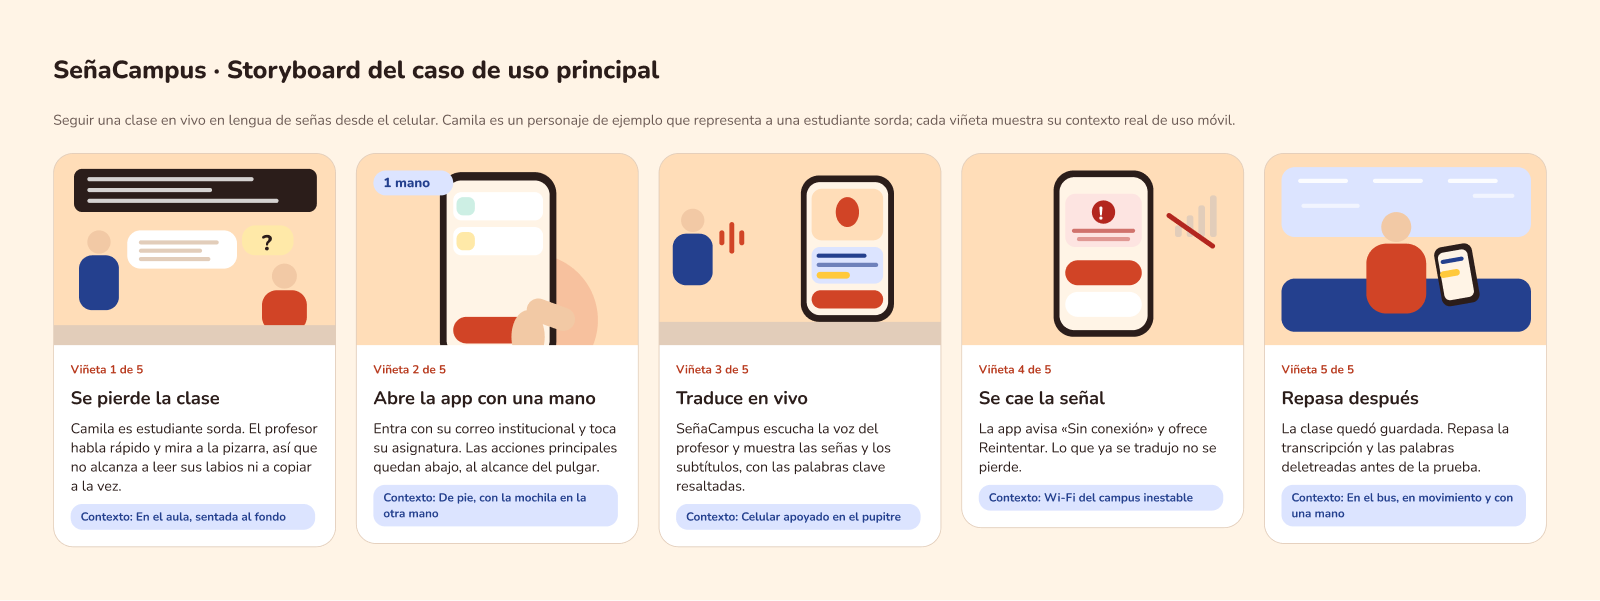
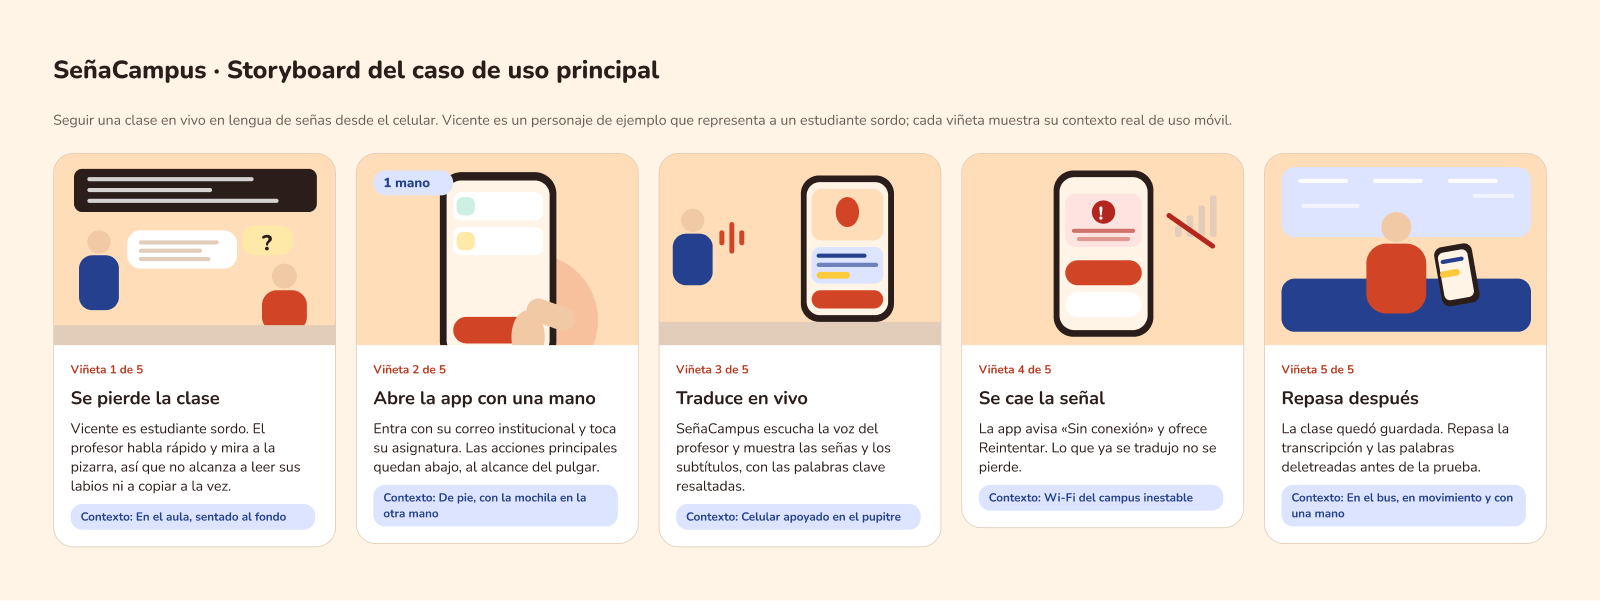
docs: recuperar estructura del backend en README y unificar personaje en Vicente

Changed region(s): [[0.0312, 0.6889, 0.1875, 0.8386], [0.2812, 0.1797, 0.7812, 0.2097], [0.1562, 0.8386, 0.1875, 0.8686]]

diff --git a/README.md b/README.md
@@ -22,7 +22,7 @@ Aplicación móvil desarrollada en **React Native con Expo (SDK 58)** para apoya
 * **Estado:** hooks de React (`useState`, `useEffect`, `useRef`) y datos de ejemplo en `src/data/mockData.js`
 * **Componentes nativos:** `FlatList` (listas), `Pressable` (toques con estado presionado), `TextInput` controlado, `Modal`, `Switch`, `SafeAreaView` / `useSafeAreaInsets`
 * **Diseño:** colores, tipografía (Nunito) y medidas centralizados en `src/constants/`, iguales a los estilos del Figma; íconos `lucide-react-native`; logo SVG con `react-native-svg`
-* **Backend (siguiente avance):** servidor Node en `server/` con Docker (`docker-compose.yml`); cliente HTTP preparado en `mobile/src/services/api.js`
+* **Backend:** Node.js + Express + Mongoose, MongoDB en Docker; cliente HTTP preparado en `mobile/src/services/api.js`
 
 ---
 
@@ -32,8 +32,18 @@ Aplicación móvil desarrollada en **React Native con Expo (SDK 58)** para apoya
     ├── docs/
     │   ├── bitacora.md
     │   └── img/                     # Capturas de Figma y de la app
-    ├── server/                      # API (siguiente avance)
-    ├── docker-compose.yml
+    ├── docker-compose.yml           # MongoDB persistente en Docker
+    ├── server/                      # Backend: Node.js + Express + Mongoose
+    │   ├── .env                     # Puerto y conexión a MongoDB (no se sube a GitHub)
+    │   ├── scripts/
+    │   │   └── seedDictionary.js    # Carga los 2.098 términos del Diccionario LSCh
+    │   └── src/
+    │       ├── server.js            # Punto de entrada: Express, CORS, puerto 5000
+    │       ├── config/db.js         # Conexión a MongoDB
+    │       ├── models/              # Gloss.js, Session.js, Subject.js
+    │       ├── controllers/         # translationController.js, subjectController.js
+    │       ├── routes/              # translationRoutes.js, subjectRoutes.js
+    │       └── utils/textParser.js  # Normaliza texto y quita conectores
     └── mobile/
         ├── app.json                 # Nombre, ícono y pantalla de carga
         ├── assets/                  # logo.svg, icon.png, splash-icon.png, adaptive-icon.png
@@ -58,6 +68,15 @@ Aplicación móvil desarrollada en **React Native con Expo (SDK 58)** para apoya
 
 ---
 
+## Backend y base de datos
+
+El backend ya está implementado y queda listo para conectarse a la app en el siguiente avance (en el Avance N°1 la app usa datos de ejemplo, como permite la rúbrica).
+
+* **Base de datos:** MongoDB en Docker (`docker-compose.yml`) con volumen persistente.
+* **Corpus LSCh:** 2.098 términos cargados desde el *Diccionario Bilingüe Lengua de Señas Chilena – Español* (UMCE), distinguiendo señas con recurso visual y términos que se deletrean (dactilología).
+* **Motor de traducción:** `textParser.js` normaliza el texto y quita conectores que no se señan en LSCh («el», «la», «de», «hay»); `translationController.js` revisa primero frases compuestas («sala de clases») y luego palabras sueltas.
+* **API REST:** `POST /api/v1/traductor/parse` devuelve la secuencia de glosas o letras; también hay rutas CRUD de asignaturas.
+
 ## Requisitos y ejecución local
 
 ### Requisitos previos
@@ -73,6 +92,15 @@ Aplicación móvil desarrollada en **React Native con Expo (SDK 58)** para apoya
 3. **Iniciar el servidor de desarrollo:**
    `npx expo start -c`
 4. **Abrir en el teléfono:** escanear el código QR de la terminal con **Expo Go** (Android) o con la cámara (iOS).
+
+### Backend (opcional en este avance)
+Requiere **Docker Desktop**. Desde la raíz del repositorio:
+
+    docker-compose up -d
+    cd server
+    npm install
+    node scripts/seedDictionary.js   # solo la primera vez
+    npm run dev                      # API en http://localhost:5000
 
 ---
 

diff --git a/docs/bitacora.md b/docs/bitacora.md
@@ -58,9 +58,9 @@ Botón (primario, secundario y texto × normal, presionado, deshabilitado, carga
 ## 2. Arquitectura y Flujo de Usuario
 
 ### Storyboard del caso de uso principal (5 viñetas)
-Camila (personaje de ejemplo que representa a una estudiante sorda) sigue una clase en vivo desde su celular:
+Vicente (personaje de ejemplo que representa a un estudiante sordo) sigue una clase en vivo desde su celular:
 
-1. **Se pierde la clase** — *en el aula, sentada al fondo.* El profesor habla rápido y mira a la pizarra; no alcanza a leer sus labios ni a copiar a la vez.
+1. **Se pierde la clase** — *en el aula, sentado al fondo.* El profesor habla rápido y mira a la pizarra; no alcanza a leer sus labios ni a copiar a la vez.
 2. **Abre la app con una mano** — *de pie, con la mochila en la otra mano.* Entra con su correo institucional y toca su asignatura; las acciones quedan abajo, al alcance del pulgar.
 3. **Traduce en vivo** — *celular apoyado en el pupitre.* La app escucha al profesor y muestra las señas y los subtítulos con las palabras clave resaltadas.
 4. **Se cae la señal** — *Wi-Fi del campus inestable.* La app avisa «Sin conexión», ofrece Reintentar y no pierde lo ya traducido.
